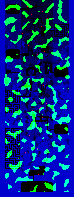
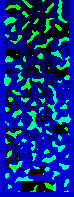
Got a fancy car at the point of interests that can be interacted with!

diff --git a/main/modes/games/bigbug/entityManager_bigbug.c b/main/modes/games/bigbug/entityManager_bigbug.c
@@ -142,6 +142,13 @@ void bb_loadSprites(bb_entityManager_t* entityManager)
     washingMachineSprite->originX = 16;
     washingMachineSprite->originY = 16;
 
+    bb_sprite_t* carIdleSprite = bb_loadSprite("car_idle", 1, 1, &entityManager->sprites[BB_CAR_IDLE]);
+    carIdleSprite->originX = 31;
+    carIdleSprite->originY = 15;
+
+    bb_sprite_t* carActiveSprite = bb_loadSprite("car_active", 20, 1, &entityManager->sprites[BB_CAR_ACTIVE]);
+    carActiveSprite->originX = 31;
+    carActiveSprite->originY = 15;
 }
 
 void bb_updateEntities(bb_entityManager_t* entityManager, bb_camera_t* camera)
@@ -611,7 +618,7 @@ bb_entity_t* bb_createEntity(bb_entityManager_t* entityManager, bb_animationType
             list_t* others     = HEAP_CAPS_CALLOC_DBG(1, sizeof(list_t), MALLOC_CAP_SPIRAM);
             push(others, (void*)GARBOTNIK_FLYING);
             bb_collision_t* collision = HEAP_CAPS_CALLOC_DBG(1, sizeof(bb_collision_t), MALLOC_CAP_SPIRAM);
-            *collision                = (bb_collision_t){others, bb_onCollisionRocket};
+            *collision                = (bb_collision_t){others, bb_onCollisionHeavyFalling};
             push(entity->collisions, (void*)collision);
 
             entity->halfWidth  = 192;
@@ -841,6 +848,38 @@ bb_entity_t* bb_createEntity(bb_entityManager_t* entityManager, bb_animationType
             entity->hasLighting                 = true;
             entity->updateFunction = &bb_updateHeavyFalling;
             entity->cacheable = true;
+
+            entity->collisions = HEAP_CAPS_CALLOC_DBG(1, sizeof(list_t), MALLOC_CAP_SPIRAM);
+            list_t* others     = HEAP_CAPS_CALLOC_DBG(1, sizeof(list_t), MALLOC_CAP_SPIRAM);
+            push(others, (void*)GARBOTNIK_FLYING);
+            bb_collision_t* collision = HEAP_CAPS_CALLOC_DBG(1, sizeof(bb_collision_t), MALLOC_CAP_SPIRAM);
+            *collision                = (bb_collision_t){others, bb_onCollisionHeavyFalling};
+            push(entity->collisions, (void*)collision);
+
+            break;
+        }
+        case BB_CAR_IDLE:
+        {
+            entity->halfWidth  = 25 << DECIMAL_BITS;
+            entity->halfHeight = 13 << DECIMAL_BITS;
+            entity->cacheable = true;
+
+            entity->collisions = HEAP_CAPS_CALLOC_DBG(1, sizeof(list_t), MALLOC_CAP_SPIRAM);
+            list_t* others     = HEAP_CAPS_CALLOC_DBG(1, sizeof(list_t), MALLOC_CAP_SPIRAM);
+            push(others, (void*)GARBOTNIK_FLYING);
+            bb_collision_t* collision = HEAP_CAPS_CALLOC_DBG(1, sizeof(bb_collision_t), MALLOC_CAP_SPIRAM);
+            *collision                = (bb_collision_t){others, bb_onCollisionCarIdle};
+            push(entity->collisions, (void*)collision);
+
+            break;
+        }
+        case BB_CAR_ACTIVE:
+        {
+            entity->halfWidth  = 25 << DECIMAL_BITS;
+            entity->halfHeight = 13 << DECIMAL_BITS;
+            bb_carActiveData_t* caData = HEAP_CAPS_CALLOC_DBG(1, sizeof(bb_carActiveData_t), MALLOC_CAP_SPIRAM);
+            caData->enemiesRemaining = 10;
+            bb_setData(entity, caData);
             break;
         }
         default: // FLAME_ANIM and others need nothing set

diff --git a/main/modes/games/bigbug/tilemap_bigbug.c b/main/modes/games/bigbug/tilemap_bigbug.c
@@ -31,32 +31,32 @@ void bb_initializeTileMap(bb_tilemap_t* tilemap)
             // blue value used for foreground tiles
             switch (rgbCol & 255)
             {
-                case 0:
+                case 0:  // 0 in wsg land
                 {
                     tilemap->fgTiles[i][j].health = 0;
                     break;
                 }
-                case 51:
+                case 51: // 1 in wsg land
                 {
                     tilemap->fgTiles[i][j].health = 1;
                     break;
                 }
-                case 102:
+                case 102: // 2 in wsg land
                 {
                     tilemap->fgTiles[i][j].health = 4;
                     break;
                 }
-                case 153:
+                case 153: // 3 in wsg land
                 {
                     tilemap->fgTiles[i][j].health = 10;
                     break;
                 }
-                case 204:
+                case 204: // 4 in wsg land
                 {
                     tilemap->fgTiles[i][j].health = 100;
                     break;
                 }
-                default:
+                default: // shouldn't happen
                 {
                     tilemap->fgTiles[i][j].health = 100;
                     break;
@@ -89,7 +89,13 @@ void bb_initializeTileMap(bb_tilemap_t* tilemap)
 
             switch ((rgbCol >> 16) & 255)
             { // red value used for some spawns (not eggs)
-                case 255:
+                case 51: // 1 in wsg land
+                {
+                    tilemap->fgTiles[i][j].health = 0;
+                    tilemap->fgTiles[i][j].embed = CAR_EMBED;
+                    break;
+                }
+                case 255: // 5 in wsg land
                 {
                     tilemap->fgTiles[i][j].health = 0;
                     tilemap->fgTiles[i][j].embed = WASHING_MACHINE_EMBED;
@@ -310,9 +316,17 @@ void bb_drawTileMap(bb_tilemap_t* tilemap, rectangle_t* camera, vec_t* garbotnik
                         }
                         case WASHING_MACHINE_EMBED:
                         {
-                            printf("we here\n");
                             if(bb_createEntity(entityManager, NO_ANIMATION, true, BB_WASHING_MACHINE, 1,
                                                 i * TILE_SIZE + HALF_TILE, j * TILE_SIZE + HALF_TILE, false, false) != NULL)
+                            {
+                                tilemap->fgTiles[i][j].embed = NOTHING_EMBED;
+                            }
+                            break;
+                        }
+                        case CAR_EMBED:
+                        {
+                            if(bb_createEntity(entityManager, NO_ANIMATION, true, BB_CAR_IDLE, 1,
+                                                i * TILE_SIZE + HALF_TILE, j * TILE_SIZE + HALF_TILE + 2, false, false) != NULL)
                             {
                                 tilemap->fgTiles[i][j].embed = NOTHING_EMBED;
                             }

diff --git a/main/modes/games/bigbug/typedef_bigbug.h b/main/modes/games/bigbug/typedef_bigbug.h
@@ -56,26 +56,28 @@ typedef struct bb_tileInfo_t bb_tileInfo_t;
 
 typedef enum
 {
-    CRUMBLE_ANIM,     // A particle effect where garbage crumbles
-    BUMP_ANIM,        // A particle effect where you bump things but they don't crumble
-    ROCKET_ANIM,      // A vehicle to enter and depart the level
-    FLAME_ANIM,       // A particle effect at the bottom of the rocket
-    GARBOTNIK_FLYING, // Frames of garbotnik flying
-    HARPOON,          // A harpoon you throw
-    EGG_LEAVES,       // They receive light and stimulate the egg
-    EGG,              // When stimulated enough, they hatch into a bug!
-    BU,
-    BUG, // A bug that walks on the the foreground tile field
-    BUGG,
-    BUGGO,
-    BUGGY,
-    BUTT,
+    CRUMBLE_ANIM,      // A particle effect where garbage crumbles
+    BUMP_ANIM,         // A particle effect where you bump things but they don't crumble
+    ROCKET_ANIM,       // A vehicle to enter and depart the level
+    FLAME_ANIM,        // A particle effect at the bottom of the rocket
+    GARBOTNIK_FLYING,  // Frames of garbotnik flying
+    HARPOON,           // A harpoon you throw
+    EGG_LEAVES,        // They receive light and stimulate the egg
+    EGG,               // When stimulated enough, they hatch into a bug!
+    BU,                // A bug
+    BUG,               // A bug
+    BUGG,              // A bug
+    BUGGO,             // A bug
+    BUGGY,             // A bug
+    BUTT,              // A bug
     BB_MENU,           // Various sprites loaded as frames to create the parallax main menu
     BB_DEATH_DUMPSTER, // Garbotnik's evil lair in space
     OVO_TALK,          // Awesome art for dialogue moments. Each frame just provides a different flavor.
     ATTACHMENT_ARM,    // The booster arm that detects the player and latches on.
     BB_GAME_OVER,
     BB_WASHING_MACHINE,
+    BB_CAR_IDLE,
+    BB_CAR_ACTIVE,
     WILE,              // A metal ball that is thrown
     NO_SPRITE_STAR,    // a single white pixel for aesthetic beauty.
     NO_SPRITE_POI      // Point of interest for the camera to follow in the main menu
@@ -85,7 +87,8 @@ typedef enum
 { // The kinds of stuff that may be embedded into a garbage tile.
     NOTHING_EMBED,
     EGG_EMBED,
-    WASHING_MACHINE_EMBED
+    WASHING_MACHINE_EMBED,
+    CAR_EMBED
 } bb_embeddable_t;
 
 typedef enum

diff --git a/main/modes/games/bigbug/entity_bigbug.c b/main/modes/games/bigbug/entity_bigbug.c
@@ -629,7 +629,7 @@ void bb_updateGarbotnikFlying(bb_entity_t* self)
         else
         {
             // Create a bump animation
-            bb_createEntity(&(self->gameData->entityManager), ONESHOT_ANIMATION, false, BUMP_ANIM, 1,
+            bb_createEntity(&(self->gameData->entityManager), ONESHOT_ANIMATION, false, BUMP_ANIM, bb_randomInt(1,2),
                             hitInfo.pos.x >> DECIMAL_BITS, hitInfo.pos.y >> DECIMAL_BITS, true, false);
         }
 
@@ -1429,7 +1429,7 @@ void bb_onCollisionHarpoon(bb_entity_t* self, bb_entity_t* other, bb_hitInfo_t* 
     self->drawFunction   = bb_drawStuckHarpoon;
 }
 
-void bb_onCollisionRocket(bb_entity_t* self, bb_entity_t* other, bb_hitInfo_t* hitInfo)
+void bb_onCollisionSimple(bb_entity_t* self, bb_entity_t* other, bb_hitInfo_t* hitInfo)
 {
     bb_garbotnikData_t* gData = (bb_garbotnikData_t*)other->data;
     other->pos.x              = hitInfo->pos.x + hitInfo->normal.x * other->halfWidth;
@@ -1442,9 +1442,25 @@ void bb_onCollisionRocket(bb_entity_t* self, bb_entity_t* other, bb_hitInfo_t* h
     {
         gData->vel.x = 0;
     }
+}
+
+void bb_onCollisionHeavyFalling(bb_entity_t* self, bb_entity_t* other, bb_hitInfo_t* hitInfo)
+{
+    bb_onCollisionSimple(self, other, hitInfo);
+    bb_garbotnikData_t* gData = (bb_garbotnikData_t*)other->data;
     if (hitInfo->normal.y == 1)
     {
         gData->gettingCrushed = true;
+    }
+}
+
+void bb_onCollisionCarIdle(bb_entity_t* self, bb_entity_t* other, bb_hitInfo_t* hitInfo)
+{
+    bb_onCollisionSimple(self, other, hitInfo);
+    if(bb_createEntity(&self->gameData->entityManager, LOOPING_ANIMATION, false, BB_CAR_ACTIVE, 1,
+                       self->pos.x >> DECIMAL_BITS, self->pos.y >> DECIMAL_BITS, false, false) != NULL)
+    {
+        bb_destroyEntity(self, false);
     }
 }
 

diff --git a/main/modes/games/bigbug/entity_bigbug.h b/main/modes/games/bigbug/entity_bigbug.h
@@ -109,17 +109,6 @@ typedef struct
     bb_entity_t* egg;   // tracks the egg to stimulate it.
 } bb_eggLeavesData_t;
 
-
-typedef void (*bb_callbackFunction_t)(bb_entity_t* self);
-
-typedef struct
-{
-    bb_entity_t* tracking;
-    uint16_t speed;
-    uint32_t midPointSqDist; // The point at which to decelerate.
-    bb_callbackFunction_t executeOnArrival;
-} bb_goToData;
-
 typedef struct
 {
     uint16_t stimulation; // once it reaches 600, it turns into a bug.
@@ -131,7 +120,21 @@ typedef struct
     bb_entity_t* rocket; // a reference to the booster. Notify to take off at angle = 359.
 } bb_attachmentArmData_t;
 
+typedef struct
+{
+    uint8_t enemiesRemaining;
+} bb_carActiveData_t;
 
+
+typedef void (*bb_callbackFunction_t)(bb_entity_t* self);
+
+typedef struct
+{
+    bb_entity_t* tracking;
+    uint16_t speed;
+    uint32_t midPointSqDist; // The point at which to decelerate.
+    bb_callbackFunction_t executeOnArrival;
+} bb_goToData;
 
 typedef struct
 {
@@ -240,7 +243,9 @@ void bb_drawSimple(bb_entityManager_t* entityManager, rectangle_t* camera, bb_en
 void bb_drawAttachmentArm(bb_entityManager_t* entityManager, rectangle_t* camera, bb_entity_t* self);
 
 void bb_onCollisionHarpoon(bb_entity_t* self, bb_entity_t* other, bb_hitInfo_t* hitInfo);
-void bb_onCollisionRocket(bb_entity_t* self, bb_entity_t* other, bb_hitInfo_t* hitInfo);
+void bb_onCollisionSimple(bb_entity_t* self, bb_entity_t* other, bb_hitInfo_t* hitInfo);
+void bb_onCollisionHeavyFalling(bb_entity_t* self, bb_entity_t* other, bb_hitInfo_t* hitInfo);
+void bb_onCollisionCarIdle(bb_entity_t* self, bb_entity_t* other, bb_hitInfo_t* hitInfo);
 void bb_onCollisionAttachmentArm(bb_entity_t* self, bb_entity_t* other, bb_hitInfo_t* hitInfo);
 
 //callbacks

diff --git a/main/modes/games/bigbug/entityManager_bigbug.h b/main/modes/games/bigbug/entityManager_bigbug.h
@@ -18,7 +18,7 @@
 // Constants
 //==============================================================================
 #define MAX_ENTITIES 200
-#define NUM_SPRITES  20 // The number of bb_sprite_t
+#define NUM_SPRITES  22 // The number of bb_sprite_t last accounted for car_active
 
 //==============================================================================
 // Structs

diff --git a/main/modes/games/bigbug/pathfinding_bigbug.h b/main/modes/games/bigbug/pathfinding_bigbug.h
@@ -11,8 +11,8 @@
 //==============================================================================
 typedef struct
 {
-    uint8_t x;
-    uint8_t y;
+    uint8_t x;//an index in the tilemap
+    uint8_t y;//an index in the tilemap
     bool z; // true for foreground false for midground
     uint16_t gCost;
     uint16_t hCost;
